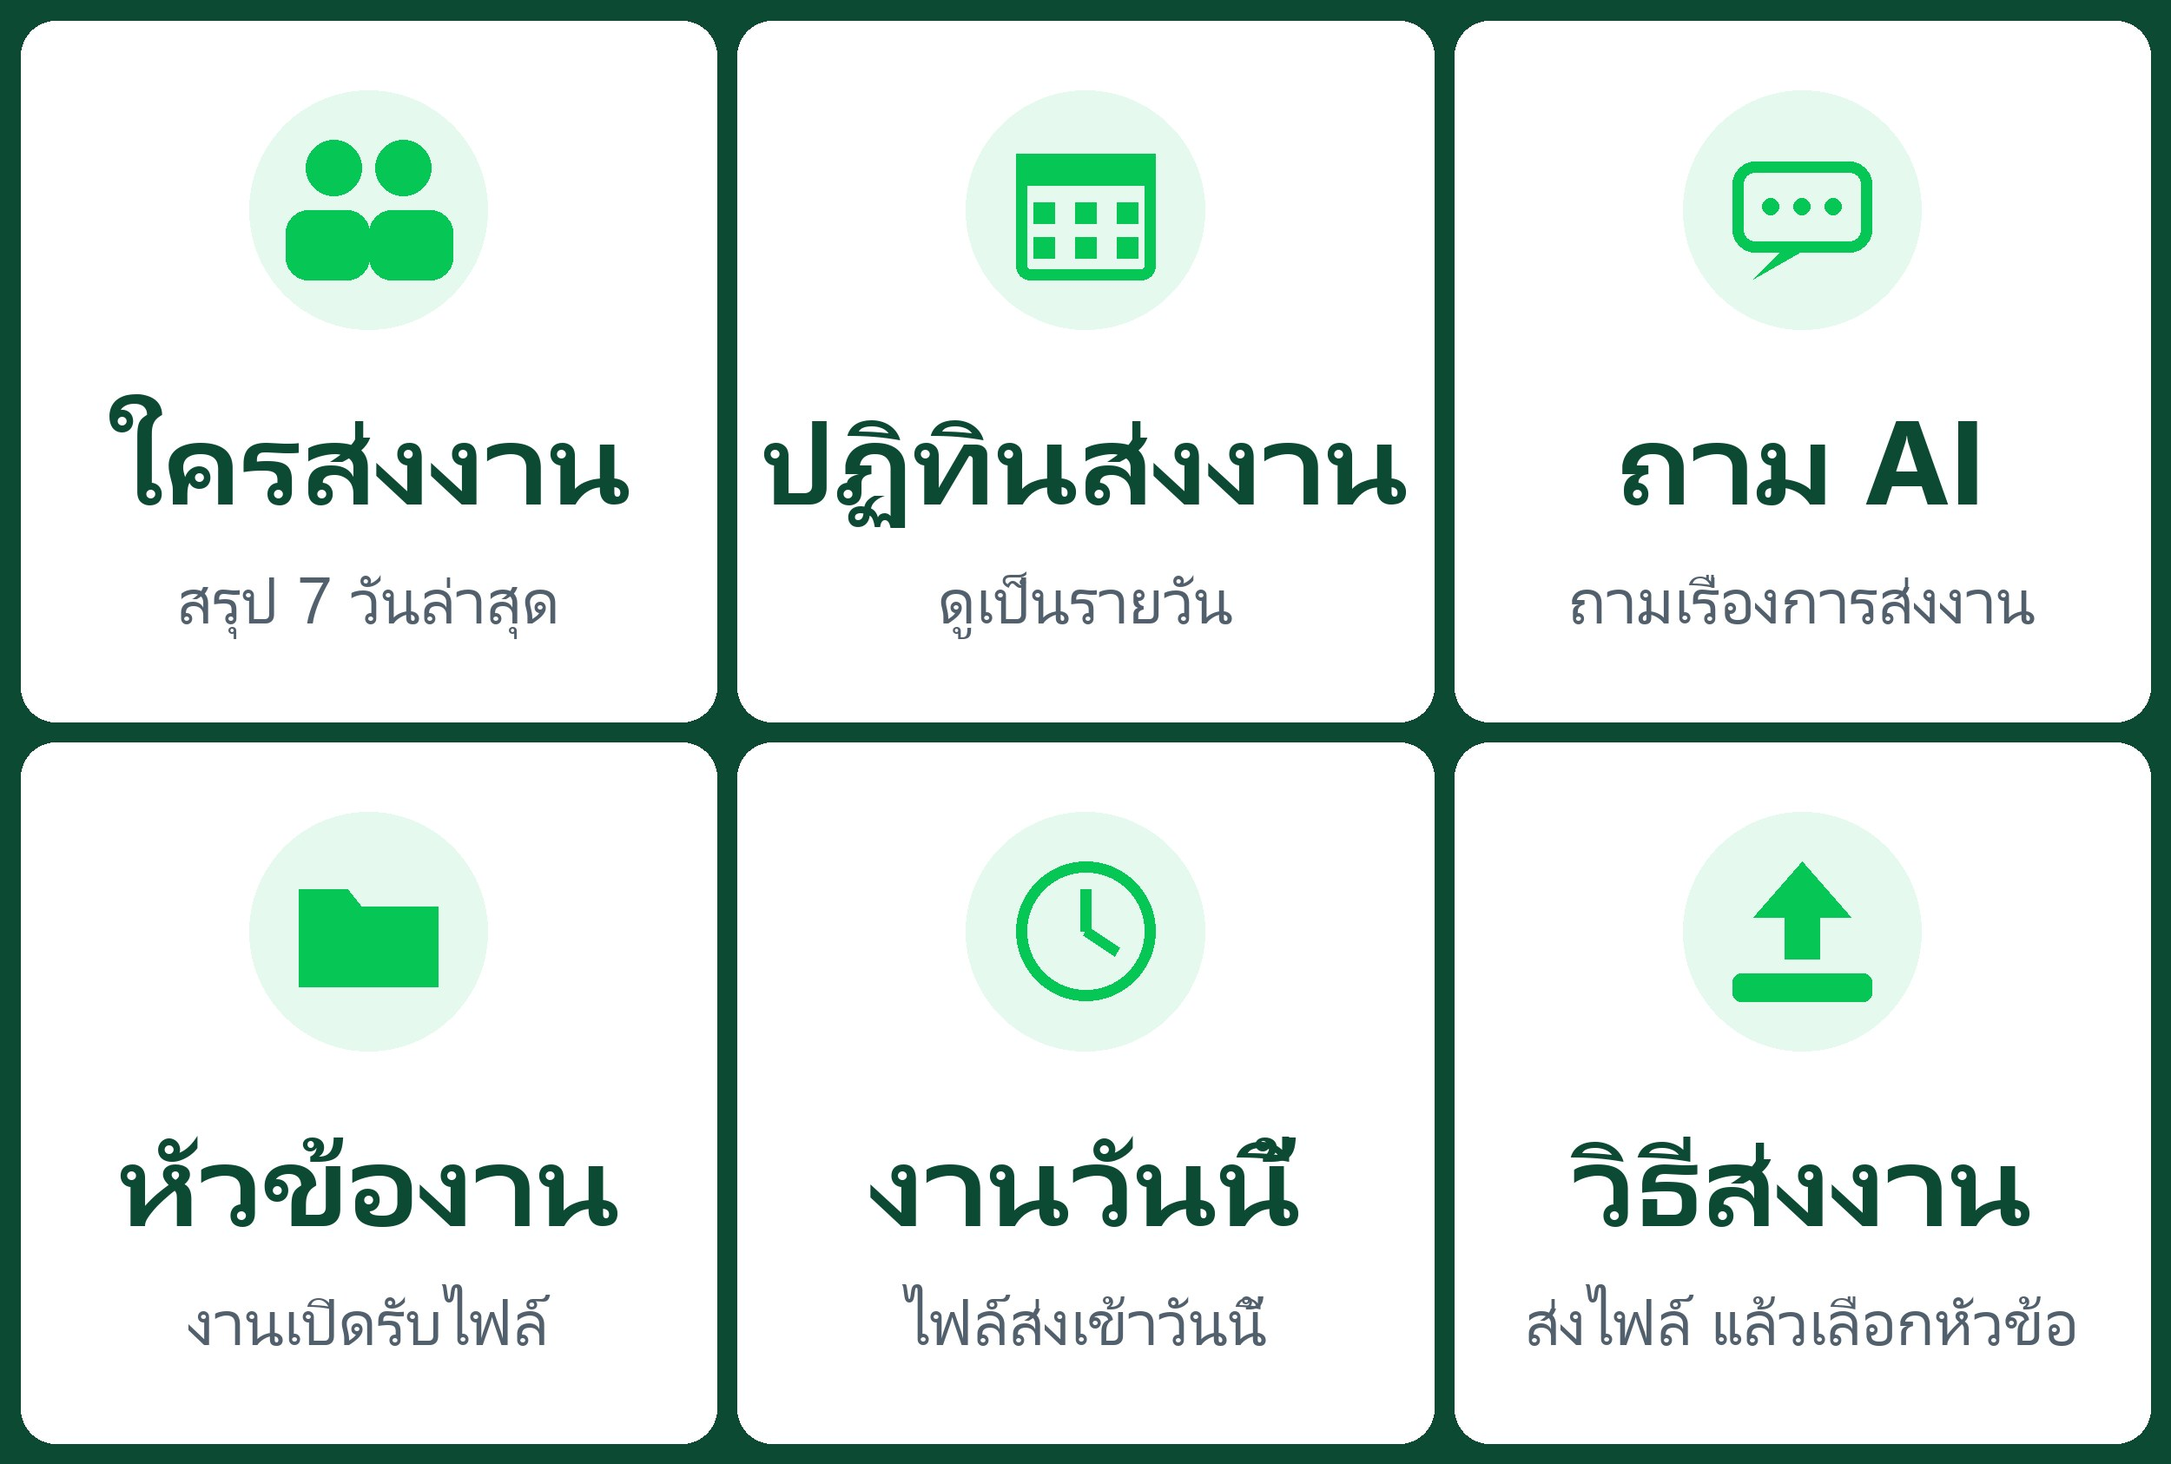
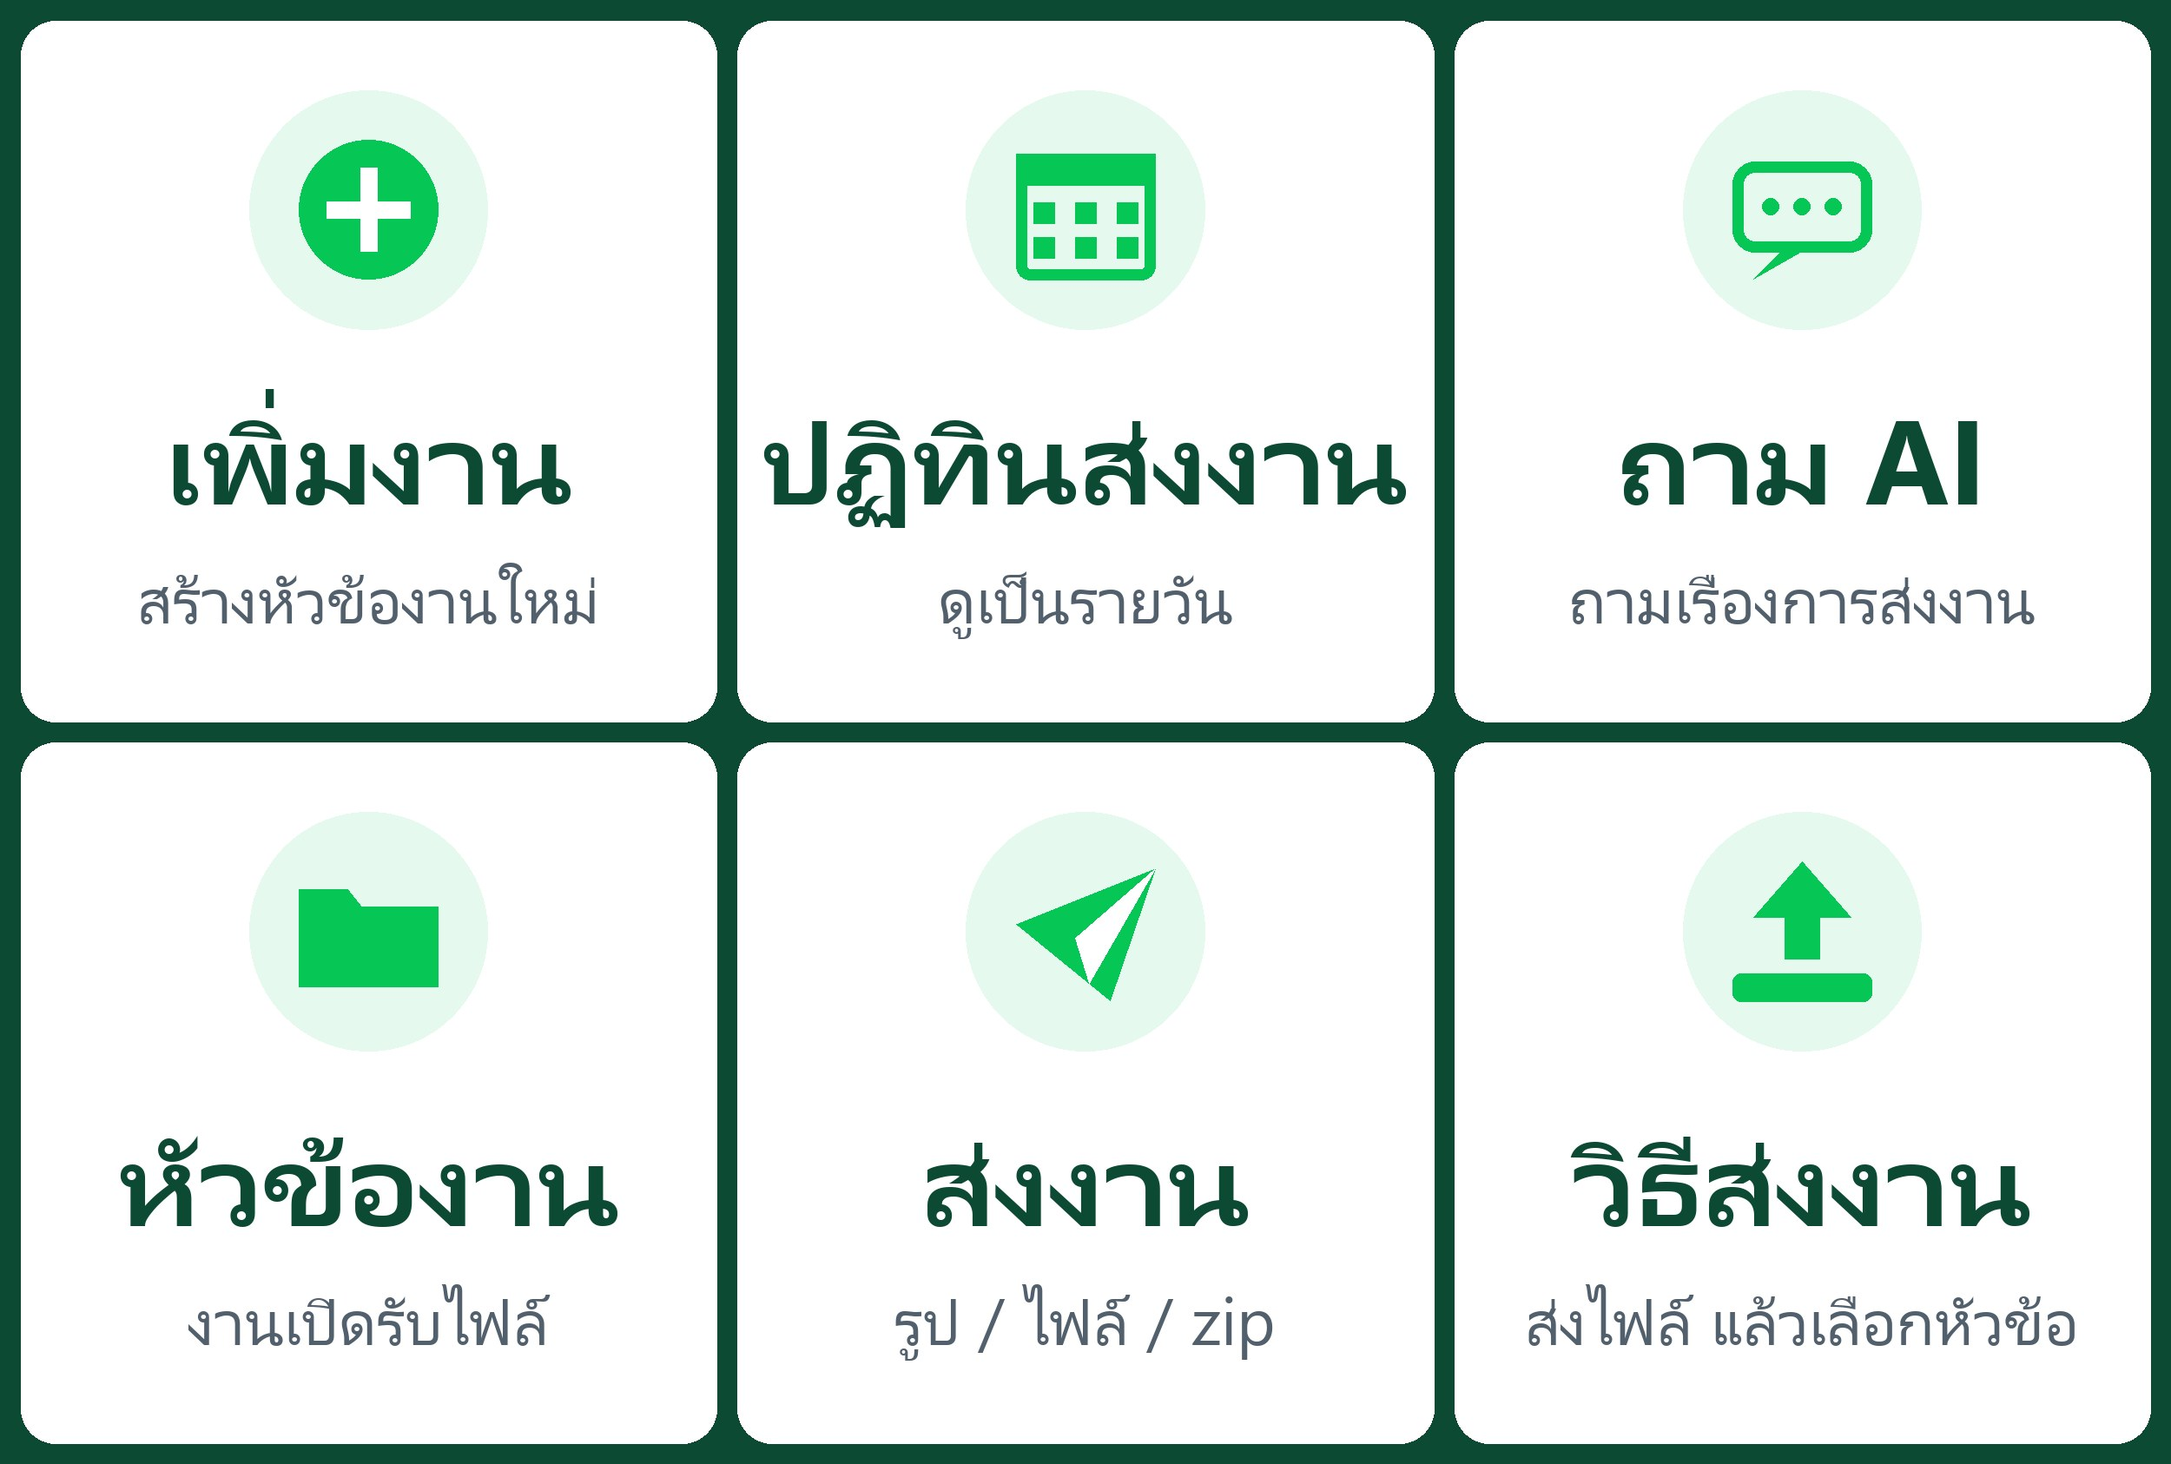
line-bot: owner menu ส่งงาน/เพิ่มงาน; re-ask topic for later files
- Owner rich menu: งานวันนี้ -> ส่งงาน (camera / photo quick reply),
  ใครส่งงาน -> เพิ่มงาน (type a name to create a topic folder, or
  "เพิ่มงาน <ชื่อ>" in one go); summary still available as text/card
- Files sent while an earlier batch is still waiting: ask for the topic
  again if the last question was over a minute ago (was silent before)
- Draw stacked Thai tone marks by hand in the menu image (no raqm)

diff --git a/line-affiliate-bot/lib/intake.js b/line-affiliate-bot/lib/intake.js
@@ -70,27 +70,34 @@ export async function handleFile(event) {
       receivedAt: new Date(event.timestamp || Date.now()).toISOString(), size: content.buf.length
     }
   });
-  // Ask the topic once per batch (first pending file only), so an album of photos gets one question.
-  if (staged.duplicate || staged.pendingCount !== 1) return;
+  // Ask once per batch (an album gets one question); the Apps Script also says "ask" again when an
+  // earlier batch was left unanswered for over a minute.
+  const ask = staged.ask ?? staged.pendingCount === 1;
+  if (staged.duplicate || !ask) return;
+  const waiting = staged.pendingCount > 1 ? ' (รอเลือกหัวข้อรวม ' + staged.pendingCount + ' ไฟล์)' : '';
   const { topics } = await driveCall('topics');
   if (!topics.length) {
-    await replyLine(event.replyToken, '📥 รับไฟล์ ' + name + ' แล้ว\nงานนี้เป็นงานอะไรครับ? พิมพ์ชื่องานได้เลย (ระบบจะสร้างโฟลเดอร์ให้)');
+    await replyLine(event.replyToken, '📥 รับไฟล์ ' + name + ' แล้ว' + waiting + '\nงานนี้เป็นงานอะไรครับ? พิมพ์ชื่องานได้เลย (ระบบจะสร้างโฟลเดอร์ให้)');
     return;
   }
   await replyLine(event.replyToken, {
     type: 'text',
-    text: '📥 รับไฟล์ ' + name + ' แล้ว\nงานนี้เป็นงานอะไรครับ? กดเลือกหัวข้อด้านล่าง\nหรือพิมพ์ชื่องานใหม่ได้เลย (ระบบจะสร้างโฟลเดอร์ให้)' + (topics.length > 13 ? '\n(แสดง 13 หัวข้อแรก)' : ''),
+    text: '📥 รับไฟล์ ' + name + ' แล้ว' + waiting + '\nงานนี้เป็นงานอะไรครับ? กดเลือกหัวข้อด้านล่าง\nหรือพิมพ์ชื่องานใหม่ได้เลย (ระบบจะสร้างโฟลเดอร์ให้)' + (topics.length > 13 ? '\n(แสดง 13 หัวข้อแรก)' : ''),
     quickReply: topicQuickReply(topics)
   });
 }
 
 // Questions are never taken as topic names (e.g. "วันนี้ใครส่งงานบ้าง").
 const LOOKS_LIKE_QUESTION = /[?？]|ไหม|มั้ย|หรือเปล่า|อะไร|ใคร|บ้าง|ยังไง|อย่างไร|เท่าไร|กี่|ทำไม|เมื่อไร|ที่ไหน|ขอ|ช่วย/;
-const NOT_TOPIC = /^(เมนู|menu|help|ช่วย|ช่วยเหลือ|วิธีส่งงาน|หัวข้องาน|งานที่ฉันส่ง|ใครส่งงาน|งานวันนี้|ปฏิทิน|ถาม AI|userid|user id|id)$/i;
+const NOT_TOPIC = /^(เมนู|menu|help|ช่วย|ช่วยเหลือ|วิธีส่งงาน|หัวข้องาน|งานที่ฉันส่ง|ใครส่งงาน|งานวันนี้|ปฏิทิน|ถาม AI|ส่งงาน|เพิ่มงาน.*|userid|user id|id)$/i;
 
 async function finalizeAndReply(event, payload) {
   const source = event.source || {};
   const res = await driveCall('finalize', { chatId: chatIdOf(source), userId: source.userId || '', ...payload });
+  if (!res.count && res.awaited) {
+    await replyLine(event.replyToken, (res.topicCreated ? '✅ สร้างงาน "' : 'ℹ มีงาน "') + res.topicName + '" ' + (res.topicCreated ? 'แล้ว' : 'อยู่แล้ว') + '\nส่งไฟล์แล้วเลือกหัวข้อนี้ได้เลย\n📂 ' + res.folderUrl);
+    return true;
+  }
   if (!res.count) return false;
   const lines = ['✅ เก็บ ' + res.count + ' ไฟล์ ในงาน "' + res.topicName + '"' + (res.topicCreated ? ' (สร้างหัวข้อใหม่)' : '') + ' วันที่ ' + res.date + ' แล้ว'];
   if (res.extracted) lines.push('📦 แตก zip ได้ ' + res.extracted + ' ไฟล์');

diff --git a/line-affiliate-bot/lib/assistant.js b/line-affiliate-bot/lib/assistant.js
@@ -2,7 +2,8 @@
 // from the Drive log, shows a submission calendar, and uses Claude for free-form questions.
 import Anthropic from '@anthropic-ai/sdk';
 import { driveCall, driveConfigured } from './drive.js';
-import { mainCarousel, topicsCarousel, howToText, askAiPrompt } from './menus.js';
+import { mainCarousel, topicsCarousel, howToText, askAiPrompt, sendWorkPrompt } from './menus.js';
+import { chatIdOf } from './line.js';
 
 const TZ = 'Asia/Bangkok';
 const MODEL = 'claude-opus-5-5';
@@ -190,6 +191,7 @@ export async function handleText(text, source) {
   const lower = t.toLowerCase();
   if (['เมนู', 'menu', 'help', 'ช่วย', 'ช่วยเหลือ'].includes(lower)) return [mainCarousel(owner)];
   if (t === 'วิธีส่งงาน') return [howToText()];
+  if (t === 'ส่งงาน') return [sendWorkPrompt()];
   if (!driveConfigured()) return ['ระบบเก็บไฟล์ยังไม่ได้ตั้งค่า (DRIVE_UPLOAD_URL / DRIVE_UPLOAD_SECRET)'];
   if (t === 'หัวข้องาน') {
     const { topics } = await driveCall('topics');
@@ -204,6 +206,16 @@ export async function handleText(text, source) {
 
   // ----- owner only -----
   if (t === 'ถาม AI') return [askAiPrompt()];
+  const add = t.match(/^เพิ่มงาน\s*(.*)$/);
+  if (add) {
+    const name = add[1].trim();
+    if (!name) {
+      await driveCall('await', { chatId: chatIdOf(source), userId: source.userId || '' });
+      return ['➕ พิมพ์ชื่องานใหม่ได้เลย เช่น "ตรวจ FCD รอบ 2" (ภายใน 15 นาที)'];
+    }
+    const res = await driveCall('createTopic', { topicName: name });
+    return [(res.topicCreated ? '✅ สร้างงาน "' : 'ℹ มีงาน "') + res.topicName + '" ' + (res.topicCreated ? 'แล้ว' : 'อยู่แล้ว') + '\n📂 ' + res.folderUrl];
+  }
   if (/^ปฏิทิน/.test(t)) {
     const { y, m } = parseCalendarMonth(t);
     const { items } = await driveCall('list', { sinceDays: 400, limit: 2000 });
@@ -214,7 +226,7 @@ export async function handleText(text, source) {
     const today = todayItems(items);
     return [today.length ? summaryText(today, 1).replace('1 วันล่าสุด', 'วันนี้') : 'วันนี้ยังไม่มีใครส่งงาน'];
   }
-  const who = t.match(/^(?:ใครส่งงาน|ส่งงาน|สรุปงาน)\s*(.*)$/);
+  const who = t.match(/^(?:ใครส่งงาน|สรุปงาน)\s*(.*)$/);
   // "ใครส่งงาน <หัวข้อ>" is a command; "ใครส่งงานบ้างวันนี้" and other questions go to the AI.
   if (who && !/[?？]|บ้าง|ไหม|มั้ย|วันนี้|เมื่อวาน|สัปดาห์|เดือน|ปี/.test(who[1])) {
     const { items } = await driveCall('list', { sinceDays: 30 });

diff --git a/line-affiliate-bot/lib/menus.js b/line-affiliate-bot/lib/menus.js
@@ -33,7 +33,8 @@ export function mainCarousel(owner) {
   ];
   if (owner) {
     cards.unshift(
-      card({ emoji: '👥', title: 'ใครส่งงานบ้าง', desc: 'สรุปการส่งงาน 7 วันล่าสุด', buttons: [msgButton('ดูสรุป', 'ใครส่งงาน'), msgButton('งานวันนี้', 'งานวันนี้', false)] }),
+      card({ emoji: '📤', title: 'ส่งงาน', desc: 'ถ่ายรูป เลือกรูป หรือแนบไฟล์ แล้วเลือกหัวข้อ', buttons: [msgButton('ส่งงาน', 'ส่งงาน')] }),
+      card({ emoji: '➕', title: 'เพิ่มงาน', desc: 'สร้างหัวข้องานใหม่ (โฟลเดอร์ใน Drive)', buttons: [msgButton('เพิ่มงาน', 'เพิ่มงาน'), msgButton('ใครส่งงานบ้าง', 'ใครส่งงาน', false)], color: '#FEF6EE' }),
       card({ emoji: '📅', title: 'ปฏิทินส่งงาน', desc: 'ดูว่าวันไหนมีคนส่งงานบ้าง', buttons: [msgButton('เดือนนี้', 'ปฏิทิน')], color: '#EEF2FF' }),
       card({ emoji: '🤖', title: 'ถาม AI', desc: 'ถามเรื่องการส่งงานด้วยภาษาพูด', buttons: [msgButton('เริ่มถาม', 'ถาม AI')], color: '#F4F3FF' })
     );
@@ -71,5 +72,17 @@ export function askAiPrompt() {
     type: 'text',
     text: '🤖 พิมพ์คำถามได้เลย หรือกดตัวอย่างด้านล่าง',
     quickReply: { items: examples.map(q => ({ type: 'action', action: { type: 'message', label: q.slice(0, 20), text: q } })) }
+  };
+}
+
+// "ส่งงาน": camera / photo buttons (LINE quick reply). Other files: attach with the chat's + button.
+export function sendWorkPrompt() {
+  return {
+    type: 'text',
+    text: '📤 ส่งงานได้เลย\n• รูป: กดปุ่มกล้องหรือรูปด้านล่าง\n• PDF / zip / ไฟล์อื่น: กด + ที่ช่องแชต → ไฟล์\nส่งแล้วบอทจะถามว่าเป็นงานอะไร',
+    quickReply: { items: [
+      { type: 'action', action: { type: 'camera', label: '📷 ถ่ายรูป' } },
+      { type: 'action', action: { type: 'cameraRoll', label: '🖼 เลือกรูป' } }
+    ] }
   };
 }

diff --git a/line-affiliate-bot/api/setup-richmenu.js b/line-affiliate-bot/api/setup-richmenu.js
@@ -34,7 +34,7 @@ const MENUS = {
   owner: {
     image: 'richmenu-owner.jpg',
     body: { size: { width: 2500, height: 1686 }, selected: true, name: 'ken-owner', chatBarText: 'เมนูผู้ดูแล',
-      areas: grid(2500, 1686, 3, 2, ['ใครส่งงาน', 'ปฏิทิน', 'ถาม AI', 'หัวข้องาน', 'งานวันนี้', 'วิธีส่งงาน']) }
+      areas: grid(2500, 1686, 3, 2, ['เพิ่มงาน', 'ปฏิทิน', 'ถาม AI', 'หัวข้องาน', 'ส่งงาน', 'วิธีส่งงาน']) }
   }
 };
 

diff --git a/line-affiliate-bot/assets/make_richmenu.py b/line-affiliate-bot/assets/make_richmenu.py
@@ -31,6 +31,13 @@ def icon(d, kind, cx, cy, r, color):
         d.ellipse([cx - r, cy - r, cx + r, cy + r], outline=color, width=w)
         d.line([cx, cy, cx, cy - r*0.6], fill=color, width=w)
         d.line([cx, cy, cx + r*0.45, cy + r*0.3], fill=color, width=w)
+    elif kind == "plus":
+        d.ellipse([cx - r, cy - r, cx + r, cy + r], fill=color)
+        d.rectangle([cx - r*0.12, cy - r*0.6, cx + r*0.12, cy + r*0.6], fill=(255, 255, 255))
+        d.rectangle([cx - r*0.6, cy - r*0.12, cx + r*0.6, cy + r*0.12], fill=(255, 255, 255))
+    elif kind == "send":
+        d.polygon([(cx - r, cy - r*0.1), (cx + r, cy - r*0.9), (cx + r*0.35, cy + r)], fill=color)
+        d.polygon([(cx - r*0.15, cy + r*0.1), (cx + r, cy - r*0.9), (cx + r*0.05, cy + r*0.75)], fill=(255, 255, 255))
     elif kind == "upload":
         d.polygon([(cx, cy - r), (cx - r*0.7, cy - r*0.2), (cx - r*0.25, cy - r*0.2), (cx - r*0.25, cy + r*0.4), (cx + r*0.25, cy + r*0.4), (cx + r*0.25, cy - r*0.2), (cx + r*0.7, cy - r*0.2)], fill=color)
         d.rounded_rectangle([cx - r, cy + r*0.6, cx + r, cy + r], r//8, fill=color)
@@ -50,17 +57,26 @@ def draw(path, size, cols, rows, tiles):
         cx = x0 + tw/2
         d.ellipse([cx - th*0.17, y0 + th*0.1, cx + th*0.17, y0 + th*0.44], fill=(230, 249, 238))
         icon(d, kind, cx, y0 + th*0.27, int(th*0.1), ACCENT)
+        # Pillow (no raqm) cannot stack an upper vowel + tone mark, e.g. "เพิ่ม": draw the tone mark by hand.
+        mark_at = None
+        for v in ("ิ่", "ี่", "ิ้", "ี้"):
+            if v in title:
+                mark_at = title.index(v); tone = v[1]; title = title.replace(v, v[0], 1); break
         d.text((cx, y0 + th*0.62), title, font=fb, fill=BG, anchor="mm")
+        if mark_at is not None:
+            left = cx - fb.getlength(title) / 2
+            x = left + fb.getlength(title[:mark_at + 1])
+            d.text((x - fb.size*0.06, y0 + th*0.62 - fb.size*0.27), tone, font=fb, fill=BG, anchor="rm")
         d.text((cx, y0 + th*0.82), sub, font=fs, fill=SUB, anchor="mm")
     im.save(path, "JPEG", quality=88, optimize=True)
     print(path, os.path.getsize(path))
 
 draw(os.path.join(HERE, "richmenu-owner.jpg"), (2500, 1686), 3, 2, [
-    ("ใครส่งงาน", "สรุป 7 วันล่าสุด", "people"),
+    ("เพิ่มงาน", "สร้างหัวข้องานใหม่", "plus"),
     ("ปฏิทินส่งงาน", "ดูเป็นรายวัน", "calendar"),
     ("ถาม AI", "ถามเรื่องการส่งงาน", "ai"),
     ("หัวข้องาน", "งานเปิดรับไฟล์", "folder"),
-    ("งานวันนี้", "ไฟล์ส่งเข้าวันนี้", "today"),
+    ("ส่งงาน", "รูป / ไฟล์ / zip", "send"),
     ("วิธีส่งงาน", "ส่งไฟล์ แล้วเลือกหัวข้อ", "upload"),
 ])
 draw(os.path.join(HERE, "richmenu-user.jpg"), (2500, 843), 3, 1, [
